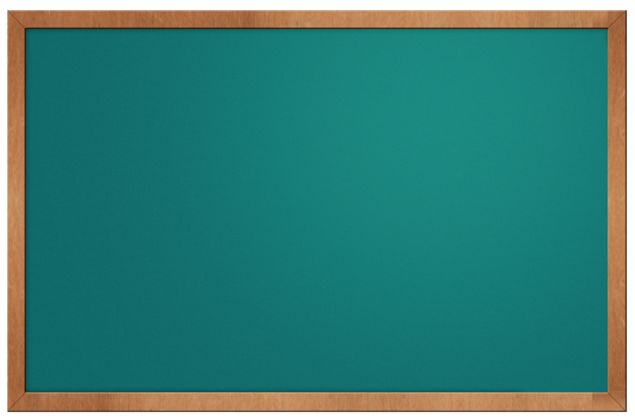
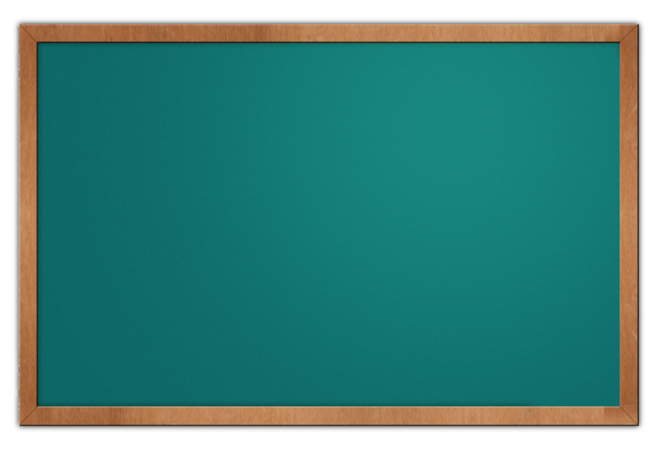
Design cleanup.

Changed region(s): [[0.0, 0.0, 0.9874, 0.9905]]

diff --git a/css/default-theme.css b/css/default-theme.css
@@ -16,13 +16,76 @@
 
 
 body#main {
-    background-color: #FFDD00;
+    background: rgb(220,220,220);
     color: #222222;
     font-family: 'Gentium Book Basic', serif;
 }
 
+div#container {
+    margin: 0 auto;
+    width: 900px;
+    display: block;
+    height: 800px;
+
+  /* Fallback */
+  background-color: #2F2727;
+  background-position: center center;
+  background-repeat: no-repeat;
+
+  /* Safari 4-5, Chrome 1-9 */
+  background: -webkit-gradient(radial, 80% 20%, 0, 80% 40%, 100, from(#fff), to(rgb(220, 220, 220)));
+
+  /* Safari 5.1+, Chrome 10+ */
+  background: -webkit-radial-gradient(center, 50% 50%, rgb(255, 255, 255), rgb(220, 220, 220));
+
+  /* Firefox 3.6+ */
+  background: -moz-radial-gradient(80% 20%, closest-corner, #1a82f7, #2F2727);
+
+  /* IE 10 */
+  background: -ms-radial-gradient(80% 20%, closest-corner, #1a82f7, #2F2727);
+
+}
+
+
+div#blackboard {
+    position: relative;
+    left: 100px;
+    top: 20px;
+    width: 660px;
+    height: 450px;
+    background-image: url("../images/blackboard.png");
+    z-index: 1;
+}
+
+img#robot {
+    position: relative;
+    left: 110px;
+    top: -205px;
+    z-index: 100;
+}
+
+div#shadow {
+  background: bottom center url("../images/shadow.png") no-repeat;
+  width: 670px;
+  height: 100px;
+  position: relative;
+  left: 100px;
+  top: -270px;
+}
+
+
 div#header {
-    background: #ddd;
+    margin-bottom: 50px;
+    background: rgb(174,188,191); /* Old browsers */
+    background: -moz-linear-gradient(top, rgba(174,188,191,1) 0%, rgba(110,119,116,1) 50%, rgba(10,14,10,1) 51%, rgba(10,8,9,1) 100%); /* FF3.6+ */
+    background: -webkit-gradient(linear, left top, left bottom, color-stop(0%,rgba(174,188,191,1)), color-stop(50%,rgba(110,119,116,1)), color-stop(51%,rgba(10,14,10,1)), color-stop(100%,rgba(10,8,9,1))); /* Chrome,Safari4+ */
+    background: -webkit-linear-gradient(top, rgba(174,188,191,1) 0%,rgba(110,119,116,1) 50%,rgba(10,14,10,1) 51%,rgba(10,8,9,1) 100%); /* Chrome10+,Safari5.1+ */
+    background: -o-linear-gradient(top, rgba(174,188,191,1) 0%,rgba(110,119,116,1) 50%,rgba(10,14,10,1) 51%,rgba(10,8,9,1) 100%); /* Opera 11.10+ */
+    background: -ms-linear-gradient(top, rgba(174,188,191,1) 0%,rgba(110,119,116,1) 50%,rgba(10,14,10,1) 51%,rgba(10,8,9,1) 100%); /* IE10+ */
+    background: linear-gradient(to bottom, rgba(174,188,191,1) 0%,rgba(110,119,116,1) 50%,rgba(10,14,10,1) 51%,rgba(10,8,9,1) 100%); /* W3C */
+    filter: progid:DXImageTransform.Microsoft.gradient( startColorstr='#aebcbf', endColorstr='#0a0809',GradientType=0 ); /* IE6-9 */
+    border-radius: 0px 0px 10px 10px;
+    box-shadow: 1px 1px 2px #000, -1px -1px 2px #000;
 }
 
     div#info {
@@ -33,14 +96,16 @@ div#header {
     }
 
         div#app-name {
-            color: #111;
+            color: #eee;
+            text-shadow: -1px -1px 0px #000;
             font-size: 32px;
             float: left;
             padding-top: 6px;
         }
 
         div#description {
-            color: #444;
+            color: #eee;
+            text-shadow: -1px -1px 0px #000;
             font-size: 24px;
             float: left;
             padding-top: 12px;
@@ -51,6 +116,12 @@ div#header {
     div#profile {
         float: right;
         display: block;
+        background: #fff;
+        margin-top: 7px;
+        margin-right: 7px;
+        width: 35px;
+        height: 35px;
+        border-radius: 2px;
     }
 
 

diff --git a/index.html b/index.html
@@ -10,37 +10,42 @@
         <link type="text/css" rel="stylesheet" href="./css/default-theme.css" />
     </head>
     <body id="main">
-        <div id="header" class="clearfix">
-            <div id="info" class="a">
-                <div id="app-name">TabuWeb</div>
-                <div id="description">Tabuada interactiva</div>
+        <div id="container" class="">
+            <div id="header" class="clearfix">
+                <div id="info" class="">
+                    <div id="app-name">TabuWeb –</div>
+                    <div id="description">Tabuada interactiva</div>
+                </div>
+
+                <div id="profile" class="">
+
+                </div>
             </div>
 
-            <div id="profile" class="b">
-                PROFILE
+            <div id="blackboard"></div>
+            <img id="robot" src="./images/robot.png" />
+            <div id="shadow"></div>
+
+            <div class="hidden" id="settings">
+                SETTINGS
+            </div>
+
+            <div class="hidden" id="controls">
+                CONTROLS
+            </div>
+
+            <div class="hidden" id="operation">
+                OPERATION
+            </div>
+
+            <div class="hidden" id="status">
+                STATUS
+            </div>
+
+            <div class="hidden" id="stats">
+                STATS
             </div>
         </div>
-
-        <div class="hidden" id="settings">
-            SETTINGS
-        </div>
-
-        <div class="hidden" id="controls">
-            CONTROLS
-        </div>
-
-        <div class="hidden" id="operation">
-            OPERATION
-        </div>
-
-        <div class="hidden" id="status">
-            STATUS
-        </div>
-
-        <div class="hidden" id="stats">
-            STATS
-        </div>
-
     </body>
 </html>
 
